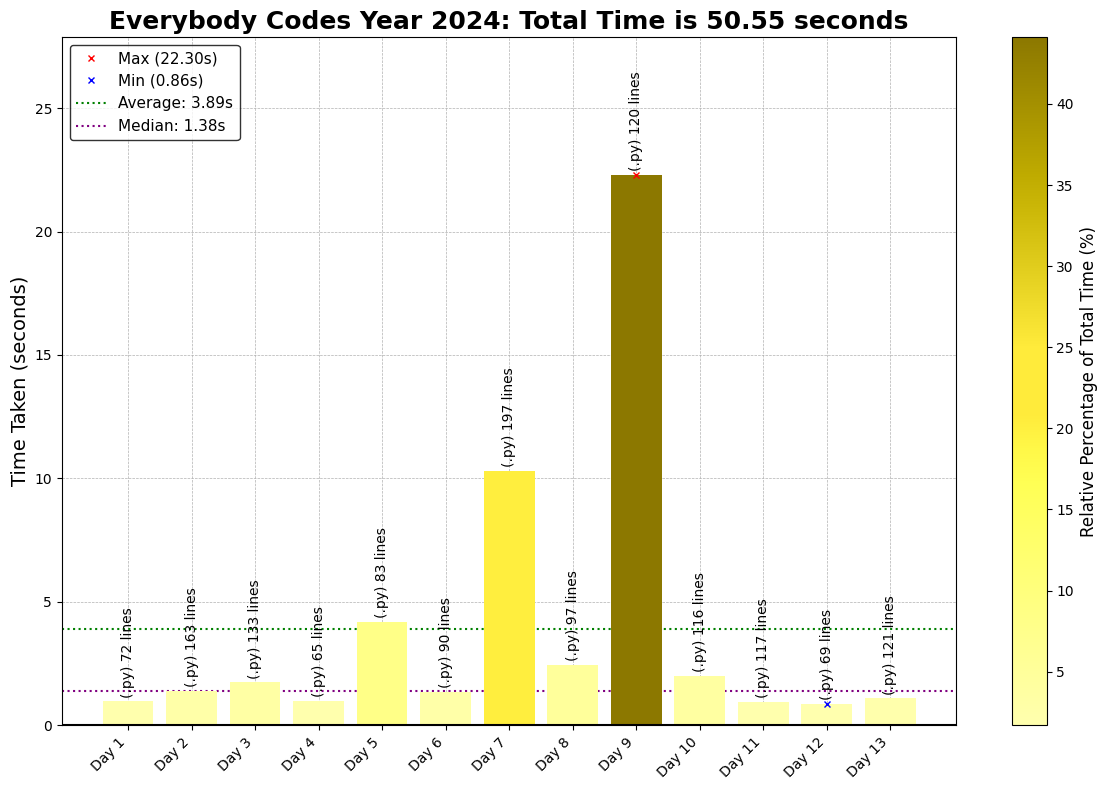
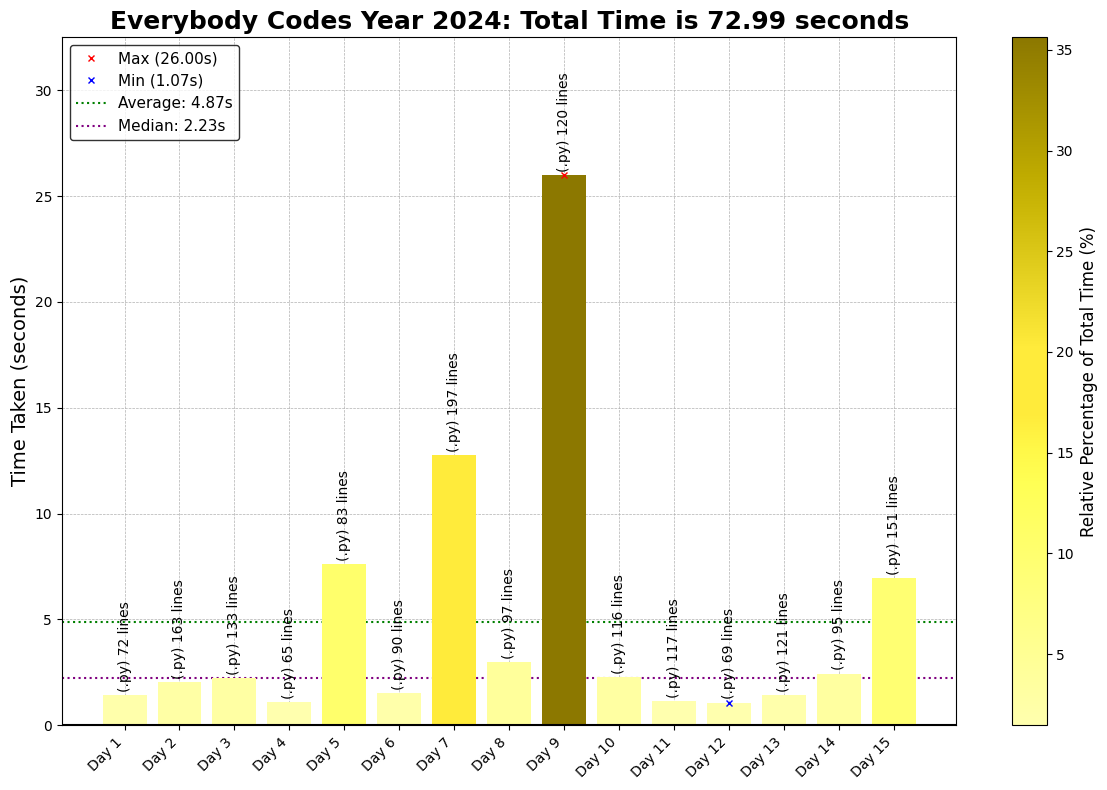
2024 Day 14 and 15

diff --git a/2024/14/2024Day14.py b/2024/14/2024Day14.py
@@ -1,0 +1,151 @@
+
+# Everybody Codes - Day 14, Year 2024
+# Solved in 2024
+# Puzzle Link: https://everybody.codes/event/2024/quests/14
+# Solution by: [abbasmoosajee07]
+# Brief: [Build Trees]
+
+#!/usr/bin/env python3
+
+import os, re, copy
+import numpy as np
+import pandas as pd
+import matplotlib.pyplot as plt
+from collections import deque
+# List of input file names
+input_files = ["Day14_p1_input.txt", "Day14_p2_input.txt", "Day14_p3_input.txt"]
+
+# Read and split the input data into individual lists
+input_data_p1, input_data_p2, input_data_p3 = [
+    open(os.path.join(os.path.dirname(__file__), file)).read().strip().split('\n')
+    for file in input_files
+]
+
+# Now, input_data_p1, input_data_p2, input_data_p3 contain the respective data
+# print(input_data_p1), print(input_data_p2), print(input_data_p3)
+
+def parse_instructions(instructions):
+    instruction_list = []
+    for line in instructions:
+        parsed_line = []
+        line = list(line.split(','))
+        for command in line:
+            direction = command[0]
+            magnitude = command[1:]
+            parsed_line.append([direction, int(magnitude)])
+        instruction_list.append(parsed_line)
+    return instruction_list
+
+def build_tree(command_list, start=(0, 0, 0)):
+    """
+    Builds a tree-like path based on command instructions.
+
+    Args:
+        command_list (list of tuples): List of commands in (action, magnitude) format.
+        start (tuple): Starting position and direction as (x, y, dir).
+
+    Returns:
+        tuple:
+            - tree_path (set): Set of all visited positions in the path.
+            - max_y (int): Maximum y-coordinate reached during the path.
+    """
+    # Initialize starting position and direction
+    x, y, z = start
+    tree_path = set()
+    max_y = 0
+
+    # Movement dictionary: Maps actions to changes in (x, y, dir)
+    movement = {
+        'U': (0, 1, 0),   # Move up
+        'D': (0, -1, 0),  # Move down
+        'L': (-1, 0, 0),  # Move left
+        'R': (1, 0, 0),   # Move right
+        'F': (0, 0, 1),   # Move forward in current direction
+        'B': (0, 0, -1)   # Move backward in current direction
+    }
+
+    # Process each command in the command list
+    for action, magnitude in command_list:
+        dx, dy, dz = movement[action]  # Get movement deltas
+        for _ in range(magnitude):
+            x += dx
+            y += dy
+            z += dz  # Update direction for F/B movements
+            tree_path.add((x, y, z))  # Record position and direction
+            max_y = max(max_y, y)  # Track maximum y-coordinate
+
+    # Return the tree path and maximum y-coordinate
+    return tree_path, max_y, (x, y, z)
+
+command_p1 = parse_instructions(input_data_p1)
+_, ans_p1, _ = build_tree(command_p1[0])
+print("Quest 1:", ans_p1)
+
+def find_unique_segments(command_group):
+    all_segments = set()
+    for command_line in command_group:
+        visited, _, _ = build_tree(command_line)
+        all_segments.update(visited)
+    return len(all_segments)
+
+command_p2 = parse_instructions(input_data_p2)
+ans_p2 = find_unique_segments(command_p2)
+print("Quest 2:", ans_p2)
+def calc_murkiness(command_group):
+    """
+    Calculates the murkiness score based on visited positions and final leaf nodes.
+
+    Args:
+        command_group (list): A list of command instructions for the path.
+
+    Returns:
+        int: The best murkiness score.
+    """
+    final_positions = set()
+    all_visited_positions = set()
+    
+    # Process each command line
+    for command_line in command_group:
+        visited_positions, _, final_position = build_tree(command_line)
+        all_visited_positions.update(visited_positions)  # Add all visited positions
+        final_positions.add(final_position)  # Add the final leaf positions
+
+    best_murkiness_score = float('inf')  # Initialize the best score to a large value
+
+    # Start BFS from the origin (0, 0, 0)
+    for start_x, start_y, start_z in all_visited_positions:
+        if start_x == 0 and start_z == 0:  # Only start from (0, 0, 0)
+            murkiness_score = 0
+            queue = deque([(0, start_x, start_y, start_z)])  # Queue for BFS with distance, x, y, z
+            visited_set = set()  # Set to keep track of visited positions
+
+            while queue:
+                distance, x, y, z = queue.popleft()
+
+                # Skip if we've already visited this position
+                if (x, y, z) in visited_set:
+                    continue
+
+                visited_set.add((x, y, z))
+
+                # If it's a final position, add the distance to the score
+                if (x, y, z) in final_positions:
+                    murkiness_score += distance
+
+                # Explore neighboring positions
+                for dx, dy, dz in {'U': (0, 1, 0), 'D': (0, -1, 0), 'R': (1, 0, 0), 
+                                    'L': (-1, 0, 0), 'F': (0, 0, 1), 'B': (0, 0, -1)}.values():
+                    next_x, next_y, next_z = x + dx, y + dy, z + dz
+
+                    # Only add to the queue if the position has been visited
+                    if (next_x, next_y, next_z) in all_visited_positions:
+                        queue.append((distance + 1, next_x, next_y, next_z))
+
+            # Track the best score
+            best_murkiness_score = min(best_murkiness_score, murkiness_score)
+
+    return best_murkiness_score
+
+command_p3 = parse_instructions(input_data_p3)
+ans_p3 = calc_murkiness(command_p3)
+print("Quest 3:", ans_p3)

diff --git a/2024/15/2024Day15.py b/2024/15/2024Day15.py
@@ -1,0 +1,110 @@
+
+# Everybody Codes - Day 15, Year 2024
+# Solved in 2024
+# Puzzle Link: https://everybody.codes/event/2024/quests/15
+# Solution by: [abbasmoosajee07]
+# Brief: [Herb Races]
+
+#!/usr/bin/env python3
+import sys, os
+from collections import defaultdict, deque
+from itertools import permutations
+from functools import lru_cache
+
+# List of input file names
+input_files = ["Day15_p1_input.txt", "Day15_p2_input.txt", "Day15_p3_input.txt"]
+
+# Read and split the input data into individual lists
+input_data_p1, input_data_p2, input_data_p3 = [
+    open(os.path.join(os.path.dirname(__file__), file)).read().strip().split('\n')
+    for file in input_files
+]
+
+DIRECTIONS = [(-1, 0), (1, 0), (0, -1), (0, 1)]
+
+# Function to load the grid from the input file
+def load_grid(part):
+    with open(os.path.join(os.path.dirname(__file__), f"Day15_p{part}_input.txt")) as f:
+        grid = {}
+        for i, row in enumerate(f.read().splitlines()):
+            for j, cell in enumerate(row):
+                if cell not in "#~":
+                    grid[(i, j)] = cell
+        return grid
+
+# Add two points (tuples)
+def add_points(p1, p2):
+    return (p1[0] + p2[0], p1[1] + p2[1])
+
+# BFS to compute minimum costs from a starting position
+def compute_costs(start, grid):
+    costs = {loc: float('inf') for loc in grid}
+    costs[start] = 0
+    queue = deque([start])
+    while queue:
+        current = queue.popleft()
+        for direction in DIRECTIONS:
+            neighbor = add_points(current, direction)
+            if neighbor in grid and costs[neighbor] > costs[current] + 1:
+                costs[neighbor] = costs[current] + 1
+                queue.append(neighbor)
+    return costs
+
+# Recursive function to compute the minimum cost of visiting all herbs
+@lru_cache(None)
+def min_cost_order(current, remaining_herbs, end):
+    if not remaining_herbs:
+        return all_costs[current][end]
+    next_herb = remaining_herbs[0]
+    next_locations = herb_locations[next_herb]
+    return min(
+        all_costs[current][next_loc] +
+        min_cost_order(next_loc, remaining_herbs[1:], end)
+        for next_loc in next_locations
+    )
+
+# Main loop for each part of the problem
+for part in (1, 2, 3):
+    # Load the grid and reset the cache
+    min_cost_order.cache_clear()
+    grid = load_grid(part)
+
+    # Extract the start position and herb locations
+    start = min(grid)
+    herb_locations = defaultdict(list)
+    for pos, value in grid.items():
+        if value.isalpha():
+            herb_locations[value].append(pos)
+
+    # Generate the list of required locations (start + all herb locations)
+    required_locations = [start]
+    required_locations.extend(loc for locs in herb_locations.values() for loc in locs)
+
+    # Precompute all-pairs shortest paths
+    all_costs = {}
+    for base in required_locations:
+        all_costs[base] = compute_costs(base, grid)
+
+    # Solve the problem for part 1 and part 2
+    if part < 3:
+        ans = min(
+            min_cost_order(start, perm, start) for perm in permutations(herb_locations)
+        )
+        print(f"Quest {part}: {ans}")
+
+    # Special logic for part 3
+    else:
+        mid_e = max(herb_locations["E"])
+        mid_r = min(herb_locations["R"])
+
+        abcde = min(
+            min_cost_order(mid_e, perm, mid_e) for perm in permutations("ABCDE")
+        )
+        ghijk = min(
+            min_cost_order(start, perm, start) for perm in permutations("EGHIJKR")
+        )
+        nopqr = min(
+            min_cost_order(mid_r, perm, mid_r) for perm in permutations("NOPQR")
+        )
+
+        print(f"Quest {part}: {abcde + ghijk + nopqr}")

diff --git a/2024/README_2024.md b/2024/README_2024.md
@@ -15,3 +15,9 @@ This repository contains coding solutions for the 2024 Everybody Codes. Each day
 7. **Day 7 - Race Tracks**: Identify results of a race and different permutations to win.
 8. **Day 8- Building Shrines**: Build a shrine using numbered blocks with various different construction restrictions.
 9. **Day 9- How to build a number**: Using recursion find the different combinations that can be used to build a number.
+10. **Day 10- Fill in Word Grids**: Similar to sudoku but for words, pretty fun except for Quest 3
+11. **Day 11- Termite Population**: Simulate the growth of termites based on previous roles
+12. **Day 12- Angry Birds**: Projectile motion but on a grid, similar to good ol Angry Birds
+13. **Day 13- Grid Traversal**: Traverse grid w/ different levels using Djikstra algorithm
+14. **Day 14- Build Trees**: Follow commands to build trees, and find different attributes of it
+15. **Day 15- Pathfinding on grid**: 
